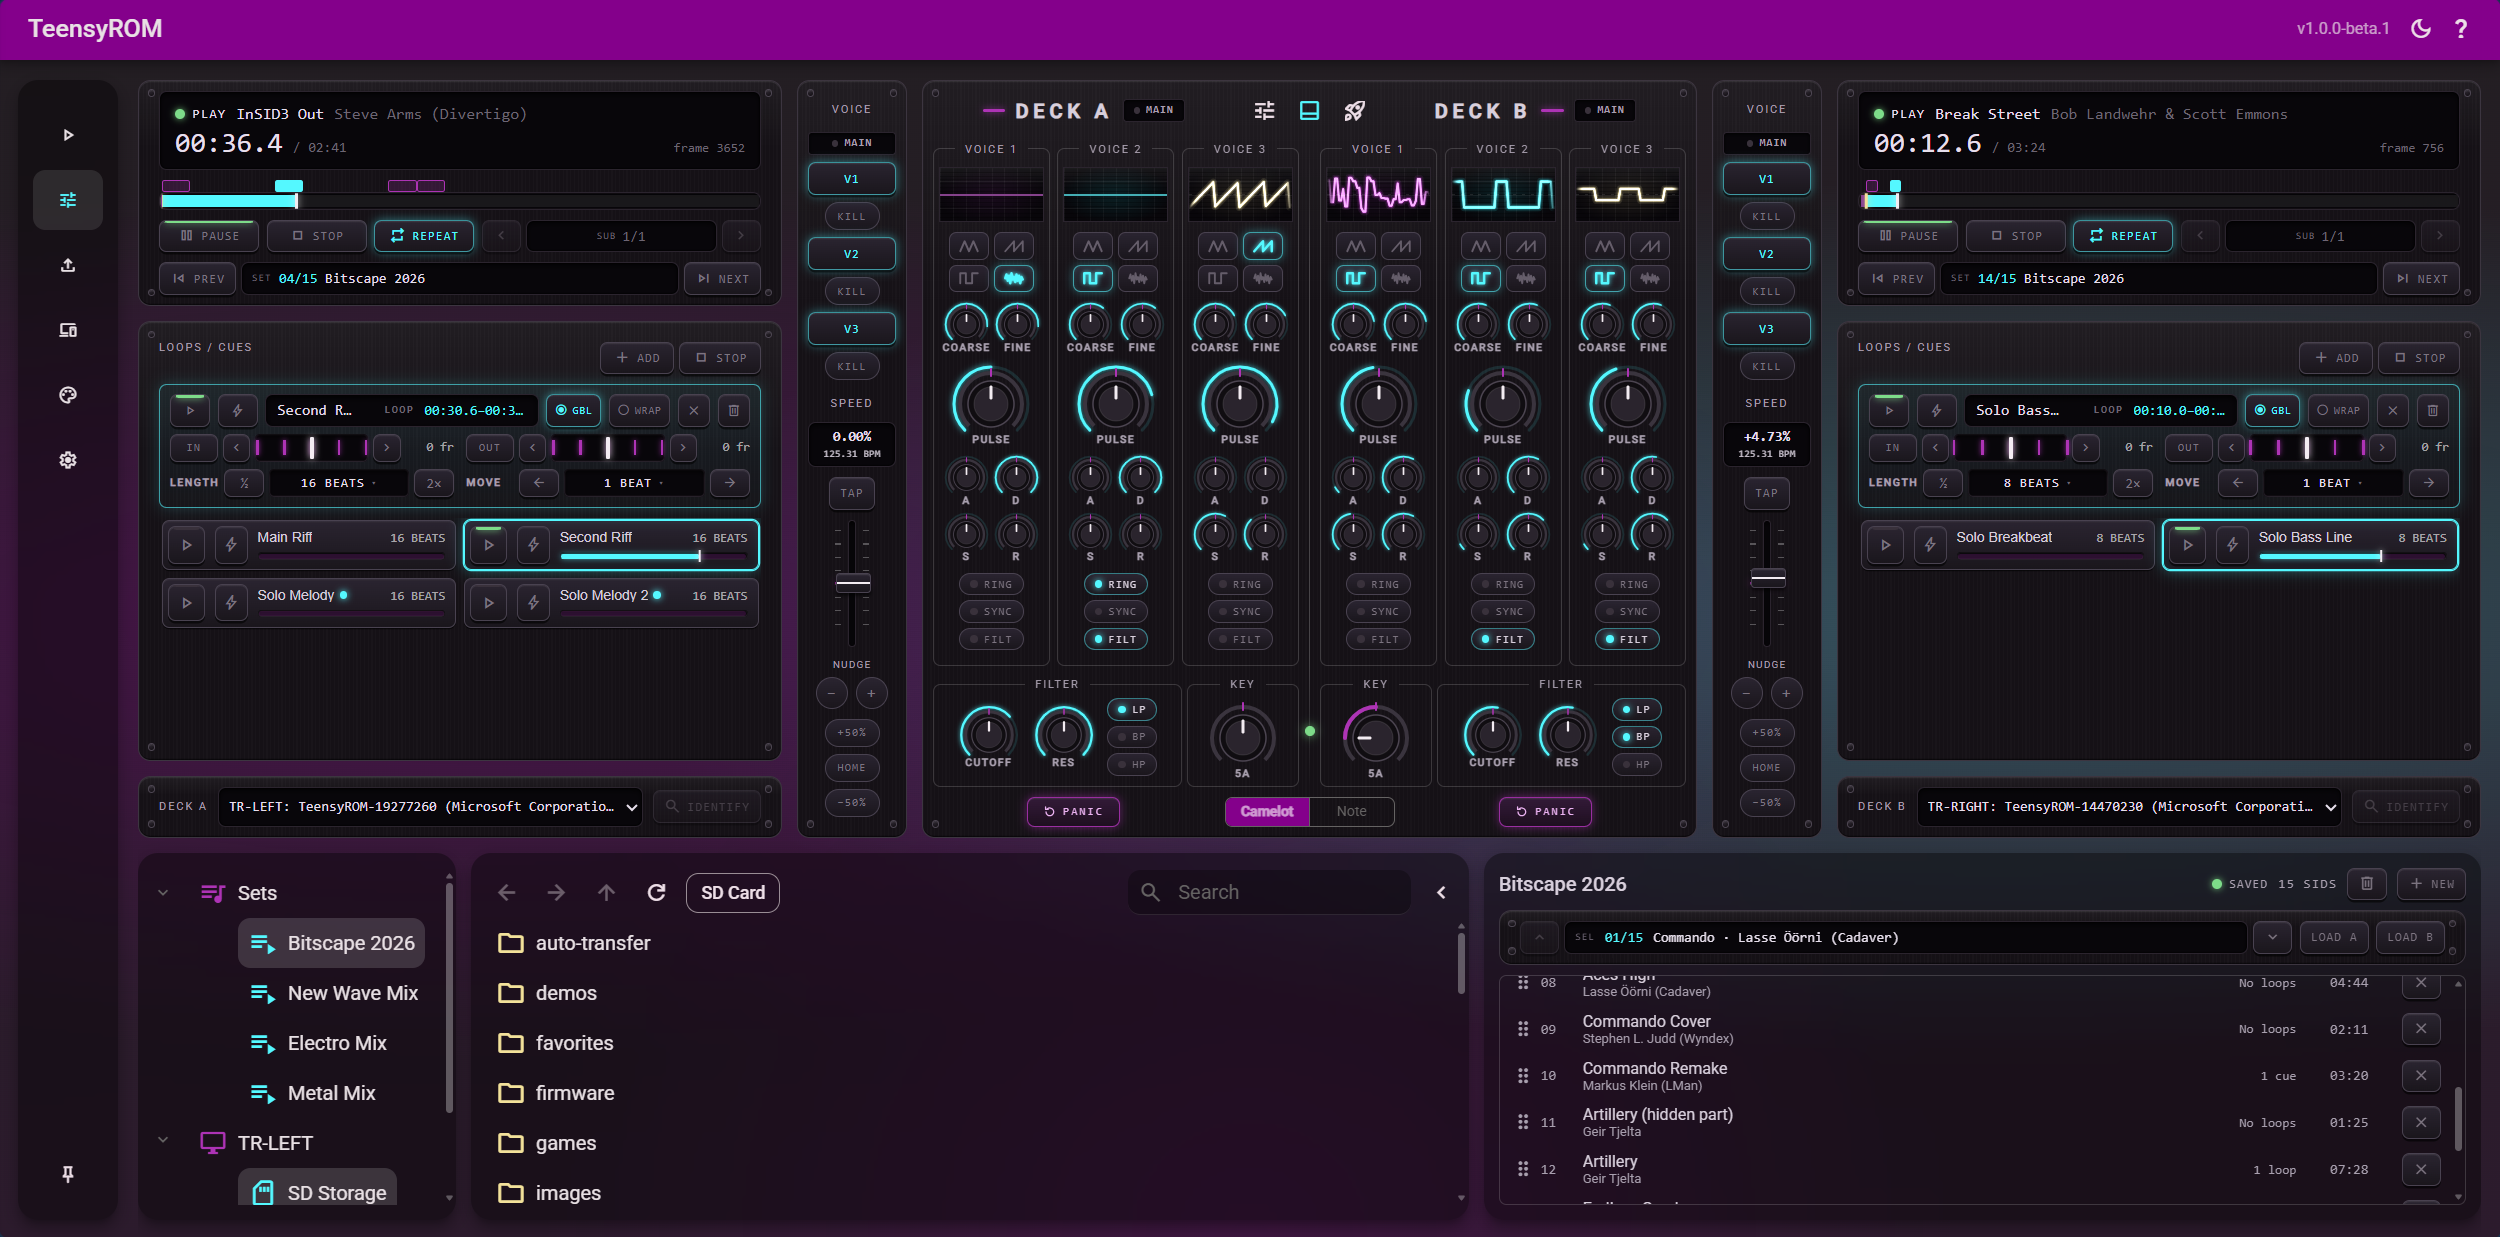
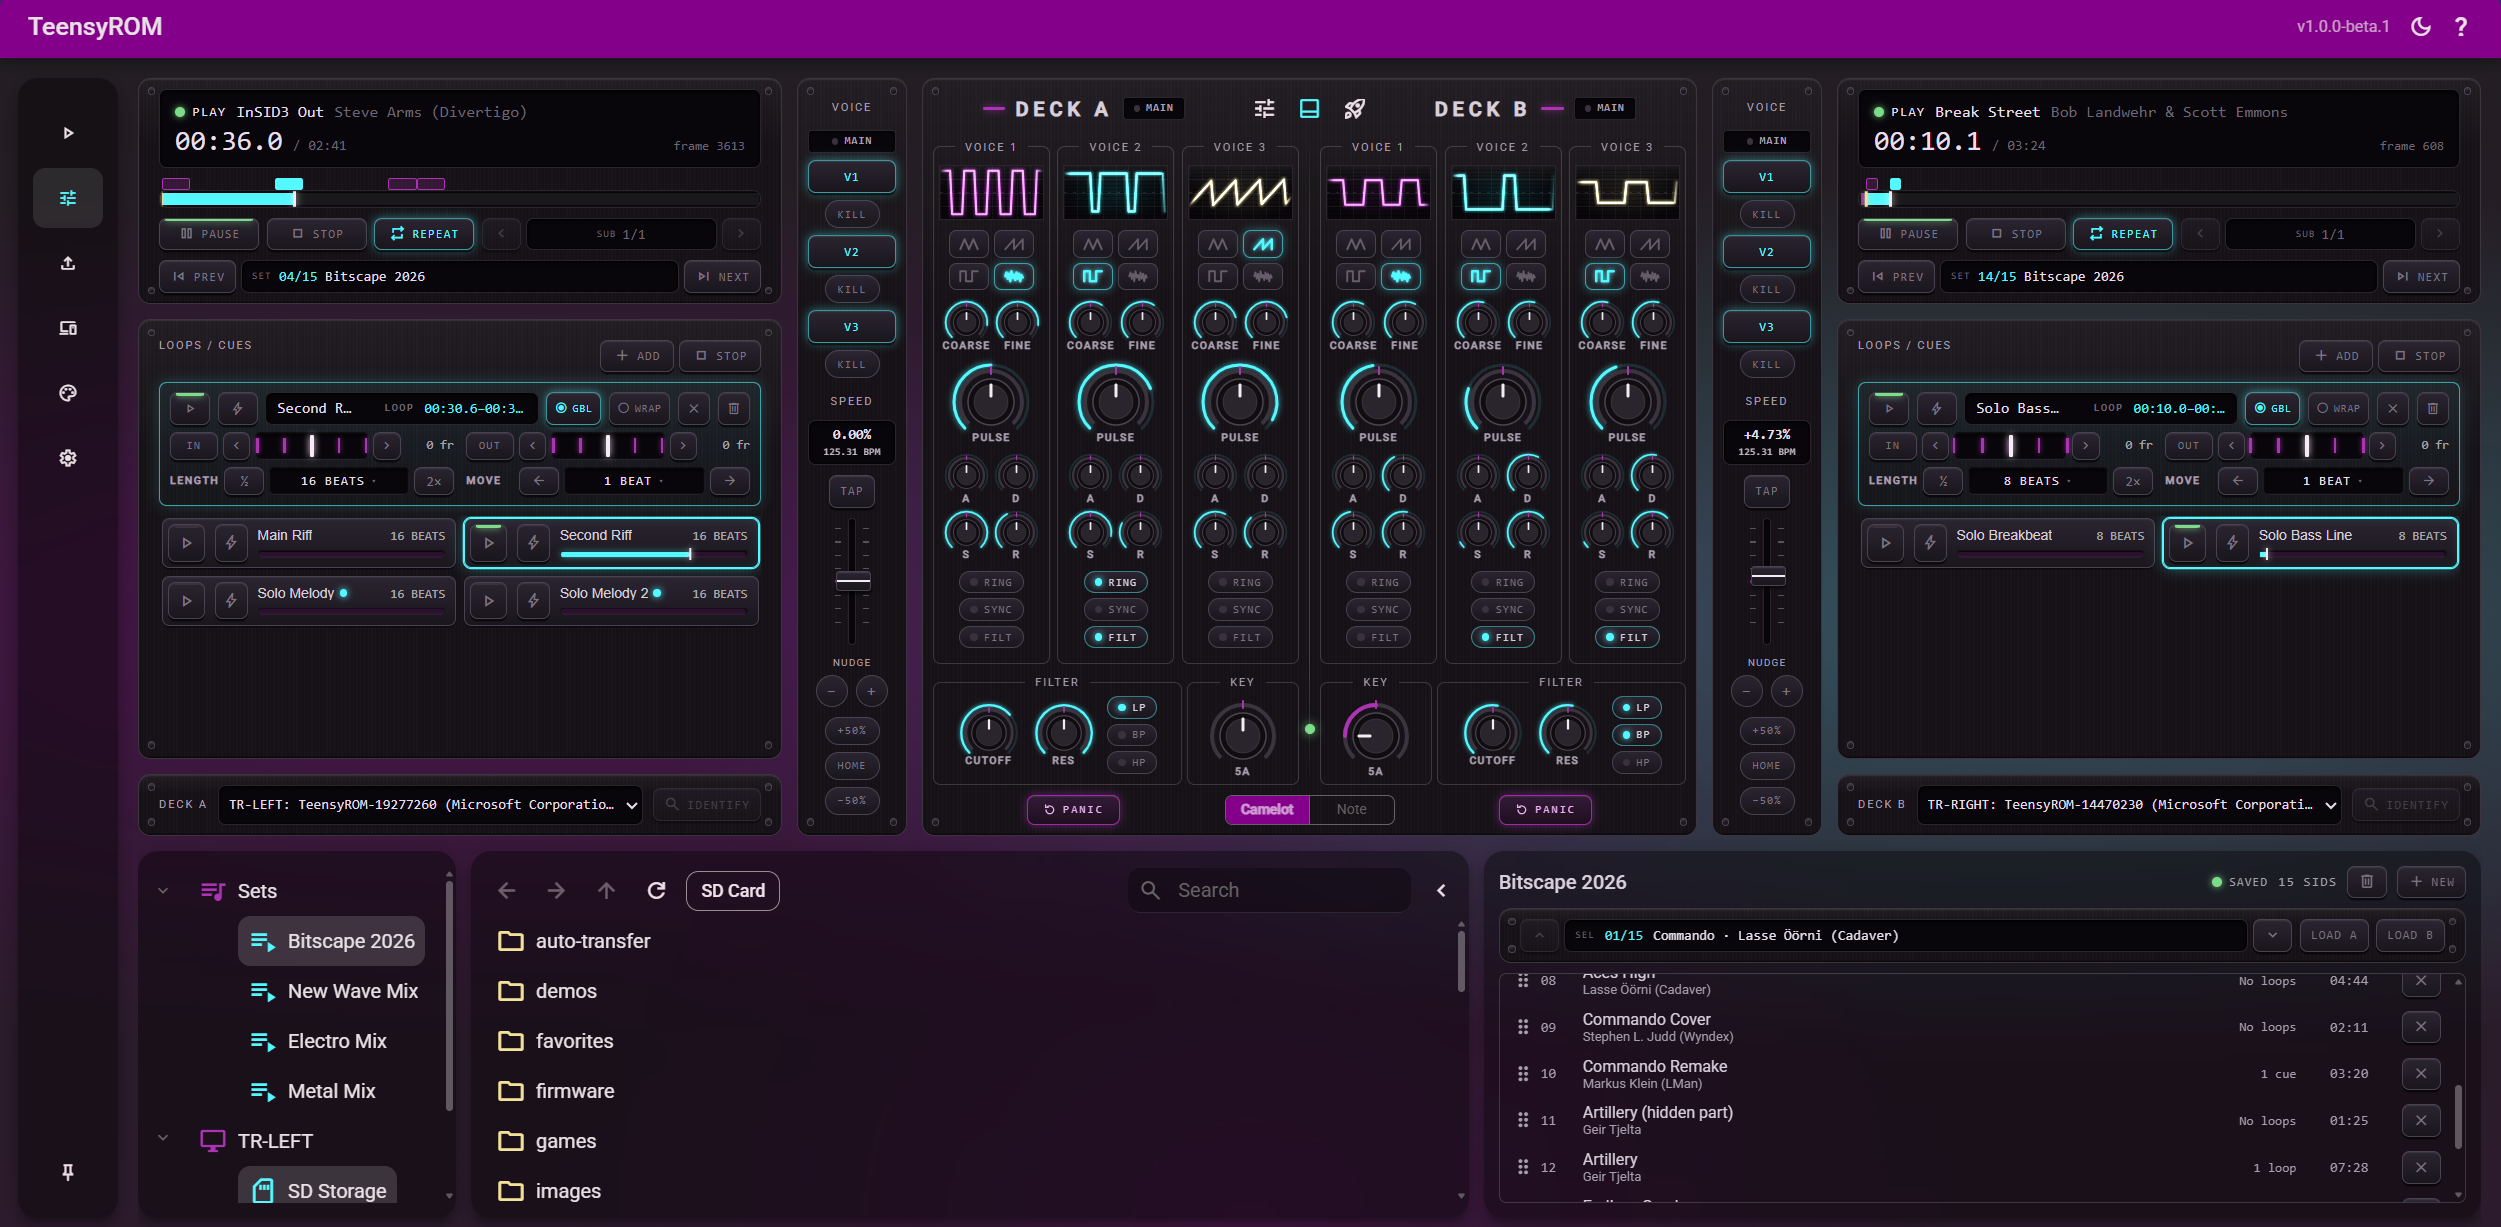
docs: use a livelier DJ Mixer screenshot

diff --git a/README.md b/README.md
@@ -46,7 +46,7 @@ Download the package for your platform from the [releases page](https://github.c
 
 ### DJ Mixer
 
-<img width="2500" height="1237" alt="DJ Mixer with a tune loaded on each deck" src=".github/images/dj-mixer.png" />
+<img width="2501" height="1227" alt="DJ Mixer with a tune loaded on each deck" src=".github/images/dj-mixer.png" />
 
 Two decks of SID music, played live through real C64s. Every note is made by the SID chip itself, and none by an emulator.
 

diff --git a/docs/dj-mixer.md b/docs/dj-mixer.md
@@ -6,7 +6,7 @@ Two decks of SID music, played live through real C64s. Every note is made by the
 
 The DJ Mixer is part of Trom UI.
 
-<img width="2500" height="1237" alt="DJ Mixer with a tune loaded on each deck" src="../.github/images/dj-mixer.png" />
+<img width="2501" height="1227" alt="DJ Mixer with a tune loaded on each deck" src="../.github/images/dj-mixer.png" />
 
 ## What you need
 
